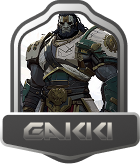
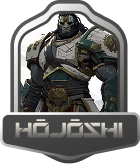
feat: add level-based rank assets, update leaderboard UI layout, and integrate new faction rank images

Changed region(s): [[0.0857, 0.6886, 0.8857, 0.8383]]

diff --git a/lib/features/leaderboard/ui/widgets/cards/faction_leaderboard_card.dart b/lib/features/leaderboard/ui/widgets/cards/faction_leaderboard_card.dart
@@ -24,7 +24,6 @@ class CardConfig {
   static const Size factionImageSize = Size(77.59, 90);
   static const Size factionAnimationSize = Size(30, 90);
   static const Size scoreBoxSize = Size(100, 45);
-  static const double scoreWidth = 140;
   static const double trophySize = 14;
 
   static const TextStyle mainTextStyle = subheadH1Medium;
@@ -174,39 +173,42 @@ class FactionLeaderboardCard extends StatelessWidget {
                 ),
                 child: SizedBox(
                   width: CardConfig.width,
-                  child: Row(
-                    children: [
-                      Expanded(
-                        child: FactionContainer(
-                          faction: firstFaction.faction,
-                          isUserFaction: firstFaction.faction == userFaction,
-                          isWinning: isFirstWinning,
-                        ),
-                      ),
-
-                      Center(
-                        child: SizedBox(
-                          width: CardConfig.scoreWidth,
-                          child: ScoreWidget(
-                            firstFactionScore: firstScore,
-                            secondFactionScore: secondScore,
-                            winnerTitle: firstScore == secondScore
-                                ? 'No leader'
-                                : (firstScore > secondScore
-                                      ? firstFaction.faction.title(t)
-                                      : secondFaction.faction.title(t)),
+                  child: Padding(
+                    padding: const EdgeInsets.symmetric(horizontal: 12),
+                    child: Row(
+                      children: [
+                        Expanded(
+                          child: FactionContainer(
+                            faction: firstFaction.faction,
+                            isUserFaction: firstFaction.faction == userFaction,
+                            isWinning: isFirstWinning,
                           ),
                         ),
-                      ),
 
-                      Expanded(
-                        child: FactionContainer(
-                          faction: secondFaction.faction,
-                          isUserFaction: secondFaction.faction == userFaction,
-                          isWinning: isSecondWinning,
+                        Center(
+                          child: Padding(
+                            padding: const EdgeInsets.symmetric(horizontal: 12),
+                            child: ScoreWidget(
+                              firstFactionScore: firstScore,
+                              secondFactionScore: secondScore,
+                              winnerTitle: firstScore == secondScore
+                                  ? 'No leader'
+                                  : (firstScore > secondScore
+                                        ? firstFaction.faction.title(t)
+                                        : secondFaction.faction.title(t)),
+                            ),
+                          ),
                         ),
-                      ),
-                    ],
+
+                        Expanded(
+                          child: FactionContainer(
+                            faction: secondFaction.faction,
+                            isUserFaction: secondFaction.faction == userFaction,
+                            isWinning: isSecondWinning,
+                          ),
+                        ),
+                      ],
+                    ),
                   ),
                 ),
               ),
@@ -237,8 +239,16 @@ class _FactionLeaderboardCardBase extends StatelessWidget {
               backgroundColor: appTheme.beige900,
               fillGradient: appTheme.factionCardFillGradient,
               strokeGradient: appTheme.strokeTag,
+              drawStroke: false,
             ),
-            child: child,
+            foregroundPainter: NotchedFactionLeaderboardCard(
+              strokeGradient: appTheme.strokeTag,
+              drawFill: false,
+            ),
+            child: ClipPath(
+              clipper: FactionCardClipper(),
+              child: child,
+            ),
           ),
         ),
       ),

diff --git a/lib/features/leaderboard/ui/widgets/painters/notched_faction_leaderboard_card.dart b/lib/features/leaderboard/ui/widgets/painters/notched_faction_leaderboard_card.dart
@@ -44,44 +44,51 @@ class NotchedFactionLeaderboardCard extends CustomPainter {
   NotchedFactionLeaderboardCard({
     required this.strokeGradient,
     this.backgroundColor,
-
     this.fillGradient,
+    this.drawFill = true,
+    this.drawStroke = true,
   });
 
   final Color? backgroundColor;
   final Gradient? fillGradient;
   final Gradient strokeGradient;
+  final bool drawFill;
+  final bool drawStroke;
 
   @override
   void paint(Canvas canvas, Size size) {
     final scaledPath = FactionPathFactory.getNotchedPath(size);
     final bounds = scaledPath.getBounds();
 
-    if (backgroundColor != null) {
+    if (drawFill && backgroundColor != null) {
       final fillPaint = Paint()
         ..color = backgroundColor!
         ..style = PaintingStyle.fill;
       canvas.drawPath(scaledPath, fillPaint);
     }
 
-    if (fillGradient != null) {
+    if (drawFill && fillGradient != null) {
       final gradientPaint = Paint()
         ..shader = fillGradient!.createShader(bounds)
         ..style = PaintingStyle.fill;
       canvas.drawPath(scaledPath, gradientPaint);
     }
 
-    final strokePaint = Paint()
-      ..shader = strokeGradient.createShader(bounds)
-      ..style = PaintingStyle.stroke
-      ..strokeWidth = 1.0;
-    canvas.drawPath(scaledPath, strokePaint);
+    if (drawStroke) {
+      final strokePaint = Paint()
+        ..shader = strokeGradient.createShader(bounds)
+        ..style = PaintingStyle.stroke
+        ..strokeWidth = 1.0;
+      canvas.drawPath(scaledPath, strokePaint);
+    }
   }
 
   @override
   bool shouldRepaint(covariant NotchedFactionLeaderboardCard oldDelegate) {
     return oldDelegate.backgroundColor != backgroundColor ||
         oldDelegate.fillGradient != fillGradient ||
-        oldDelegate.strokeGradient != strokeGradient;
+        oldDelegate.strokeGradient != strokeGradient ||
+        oldDelegate.drawFill != drawFill ||
+        oldDelegate.drawStroke != drawStroke;
   }
 }

diff --git a/lib/features/quiz/domain/enums/faction.dart b/lib/features/quiz/domain/enums/faction.dart
@@ -6,8 +6,7 @@ import 'package:reforge/generated/i18n/translations.g.dart';
 enum Faction {
   gakki,
   gyohyo,
-  seiren
-  ;
+  seiren;
 
   static Faction? fromId(int? factionId) {
     if (factionId == null) return null;
@@ -83,14 +82,43 @@ extension FactionExtension on Faction {
     }
   }
 
-  String rankCardAsset() {
-    switch (this) {
-      case Faction.gakki:
-        return Assets.images.png.gakkiRankCard.path;
-      case Faction.gyohyo:
-        return Assets.images.png.gyohyoRankCard.path;
-      case Faction.seiren:
-        return Assets.images.png.seirenRankCard.path;
-    }
+  String rankCardAsset(int level) {
+    final factionAssets = switch (this) {
+      Faction.gakki => [
+        Assets.images.png.hojoshi1,
+        Assets.images.png.hojoshi2,
+        Assets.images.png.hojoshi3,
+        Assets.images.png.hojoshi4,
+        Assets.images.png.hojoshi5,
+        Assets.images.png.hojoshi6,
+      ],
+      Faction.gyohyo => [
+        Assets.images.png.yukon1,
+        Assets.images.png.yukon2,
+        Assets.images.png.yukon3,
+        Assets.images.png.yukon4,
+        Assets.images.png.yukon5,
+        Assets.images.png.yukon6,
+      ],
+      Faction.seiren => [
+        Assets.images.png.nagisabe1,
+        Assets.images.png.nagisabe2,
+        Assets.images.png.nagisabe3,
+        Assets.images.png.nagisabe4,
+        Assets.images.png.nagisabe5,
+        Assets.images.png.nagisabe6,
+      ],
+    };
+
+    final index = switch (level) {
+      < 10 => 0,
+      < 20 => 1,
+      < 30 => 2,
+      < 50 => 3,
+      < 70 => 4,
+      _ => 5,
+    };
+
+    return factionAssets[index].path;
   }
 }

diff --git a/lib/features/home/controller/cubit/home_cubit.dart b/lib/features/home/controller/cubit/home_cubit.dart
@@ -51,10 +51,10 @@ class HomeCubit extends Cubit<HomeState> {
   }
 
   Future<void> loadStatsByPeriod(StatsPeriod period, {bool isInitial = false}) async {
-    if (!isInitial && state.statsMap.containsKey(period)) {
-      emit(state.copyWith(period: period));
-      return;
-    }
+    // if (!isInitial && state.statsMap.containsKey(period)) {
+    //   emit(state.copyWith(period: period));
+    //   return;
+    // }
 
     if (!isInitial) {
       emit(state.copyWith(isStatsLoading: true, period: period));
@@ -93,12 +93,12 @@ class HomeCubit extends Cubit<HomeState> {
 
   RankEntity _createRank(OnboardedUser? user, [UserStats? stats]) {
     final faction = user?.mainFaction ?? Faction.gakki;
-    final japanRankName = user?.japanRank ?? t.home.rank_label;
-    final rankName = user?.rank ?? t.tiers.beginner;
+    final japanRankName = user?.japanRank ?? t.home.default_japanese_rank_name;
+    final rankName = user?.rank ?? t.home.default_rank_name;
 
     if (stats != null) {
       return RankEntity(
-        imageAsset: faction.rankCardAsset(),
+        imageAsset: faction.rankCardAsset(stats.level),
         japanRankName: japanRankName,
         rankName: rankName,
         faction: faction,

diff --git a/lib/features/achievements/data/models/user_ranks_dto.dart b/lib/features/achievements/data/models/user_ranks_dto.dart
@@ -10,7 +10,7 @@ part 'user_ranks_dto.g.dart';
 sealed class UserRankData with _$UserRankData {
   const factory UserRankData({
     required int id,
-    required String username,
+    required String? username,
     required RankInfo currentRank,
     required List<ProgressionStep> progression,
   }) = _UserRankData;
@@ -44,7 +44,8 @@ sealed class ProgressionStep with _$ProgressionStep {
 
   RankEntity toDomain(Faction faction) {
     return RankEntity(
-      imageAsset: faction.rankCardAsset(),
+      //TODO(Masayoshi): 0 for now cause we dont know real user rank here
+      imageAsset: faction.rankCardAsset(0),
       japanRankName: japanRank,
       rankName: rank,
       faction: faction,

diff --git a/lib/features/achievements/domain/entities/rank_entity.dart b/lib/features/achievements/domain/entities/rank_entity.dart
@@ -33,12 +33,12 @@ class RankEntity {
     return RankEntity.mockWith(t, userFaction);
   }
 
-  factory RankEntity.mockWith(Translations translations, [Faction? userFaction]) {
+  factory RankEntity.mockWith(Translations t, [Faction? userFaction]) {
     final faction = userFaction ?? Faction.gakki;
     return RankEntity(
-      imageAsset: faction.rankCardAsset(),
-      japanRankName: translations.home.rank_label,
-      rankName: translations.tiers.intermediate,
+      imageAsset: faction.rankCardAsset(1),
+      japanRankName: t.home.default_japanese_rank_name,
+      rankName: t.home.default_rank_name,
       faction: faction,
       lvl: 1,
       xp: 10,

diff --git a/lib/features/leaderboard/ui/widgets/cards/faction_container.dart b/lib/features/leaderboard/ui/widgets/cards/faction_container.dart
@@ -60,10 +60,15 @@ class FactionContainer extends StatelessWidget {
           ),
         ),
 
-        Text(
-          '$text faction',
-          style: CardConfig.thirtyTextStyle.copyWith(
-            color: context.appTheme.beige100,
+        FittedBox(
+          child: Text(
+            '$text faction',
+            maxLines: 1,
+            overflow: .ellipsis,
+            textAlign: .center,
+            style: CardConfig.thirtyTextStyle.copyWith(
+              color: context.appTheme.beige100,
+            ),
           ),
         ),
       ],

diff --git a/lib/features/leaderboard/data/models/leaderboard_user.dart b/lib/features/leaderboard/data/models/leaderboard_user.dart
@@ -63,10 +63,8 @@ extension CurrentUserRankX on CurrentUserRank {
   LeaderboardUserEntity toDomain() {
     final username = name ?? '';
 
-    final realRank = (rank - 1).clamp(1, rank);
-
     return LeaderboardUserEntity(
-      rank: realRank,
+      rank: rank,
       username: username,
       avatarUrl: avatarUrl,
       xp: progress.totalXp.toInt(),

diff --git a/lib/features/achievements/domain/mock/generate_ranks.dart b/lib/features/achievements/domain/mock/generate_ranks.dart
@@ -21,7 +21,7 @@ class RanksGenerator {
       final currentXp = (maxXp * (0.2 + (i * 0.07))).toInt().clamp(0, maxXp);
 
       return RankEntity(
-        imageAsset: faction.rankCardAsset(),
+        imageAsset: faction.rankCardAsset(level),
         japanRankName: t.home.rank_label,
         rankName: names[i % names.length],
         faction: faction,

diff --git a/lib/features/home/ui/widgets/faction_widget.dart b/lib/features/home/ui/widgets/faction_widget.dart
@@ -14,7 +14,7 @@ class FactionWidget extends StatelessWidget {
       clipper: SharpFactionClipper(),
       child: Container(
         color: context.appTheme.beige400,
-        padding: const .only(top: 4, bottom: 6.5, left: 5, right: 48),
+        padding: const .only(top: 4, bottom: 4, left: 8, right: 48),
         child: Text(
           faction,
 
